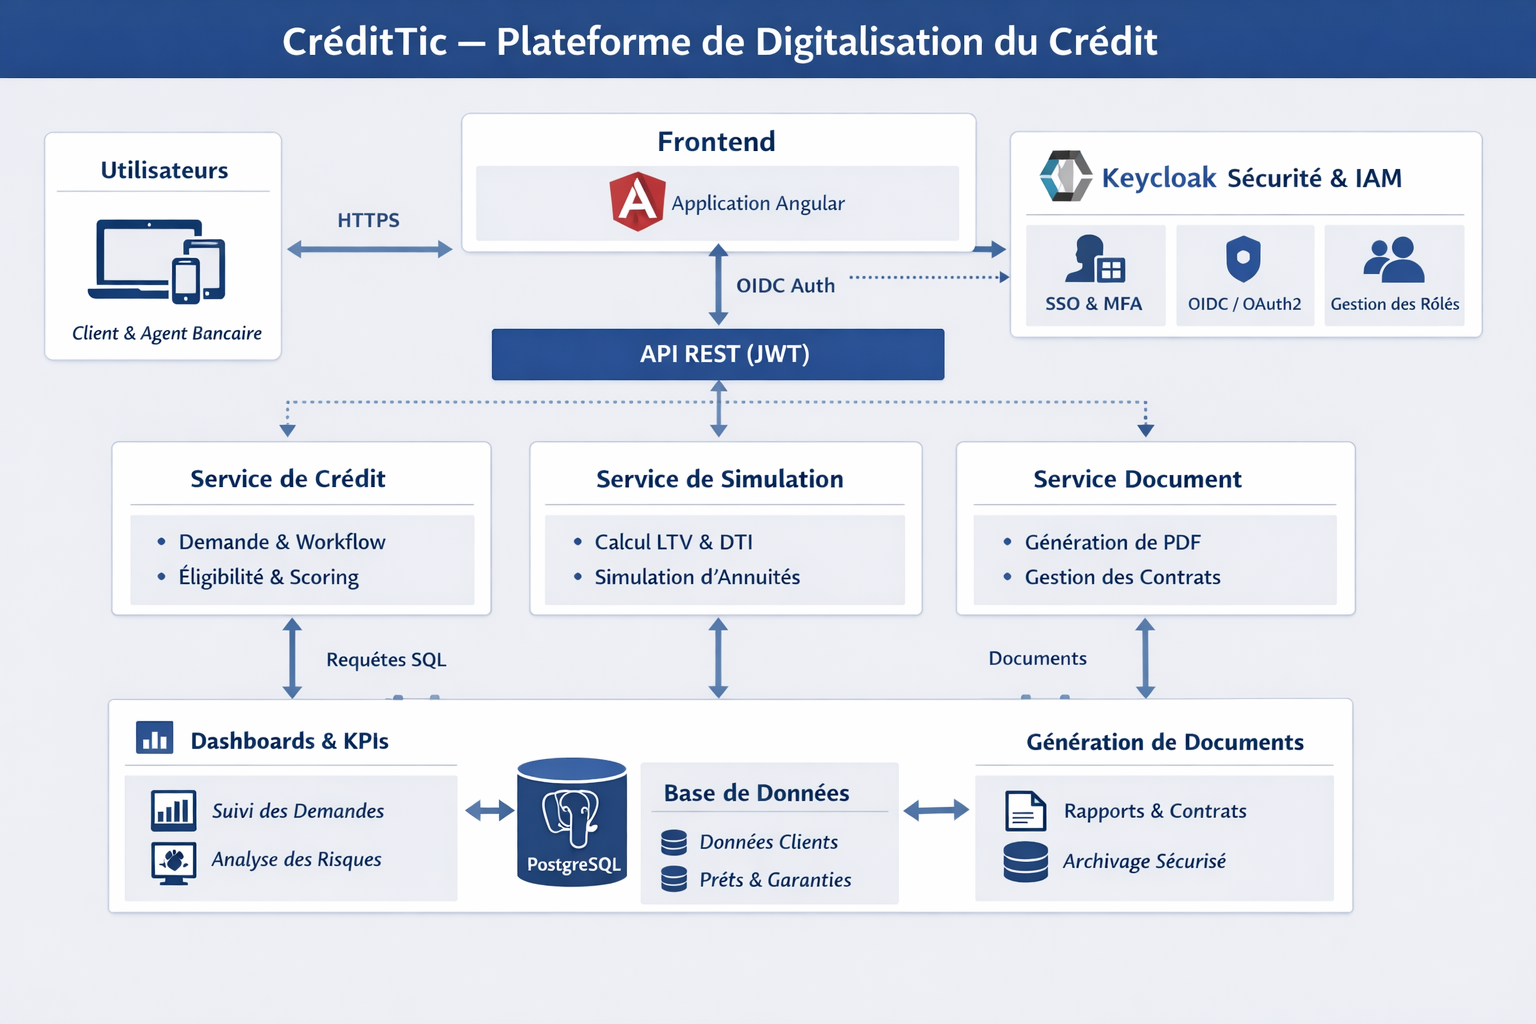
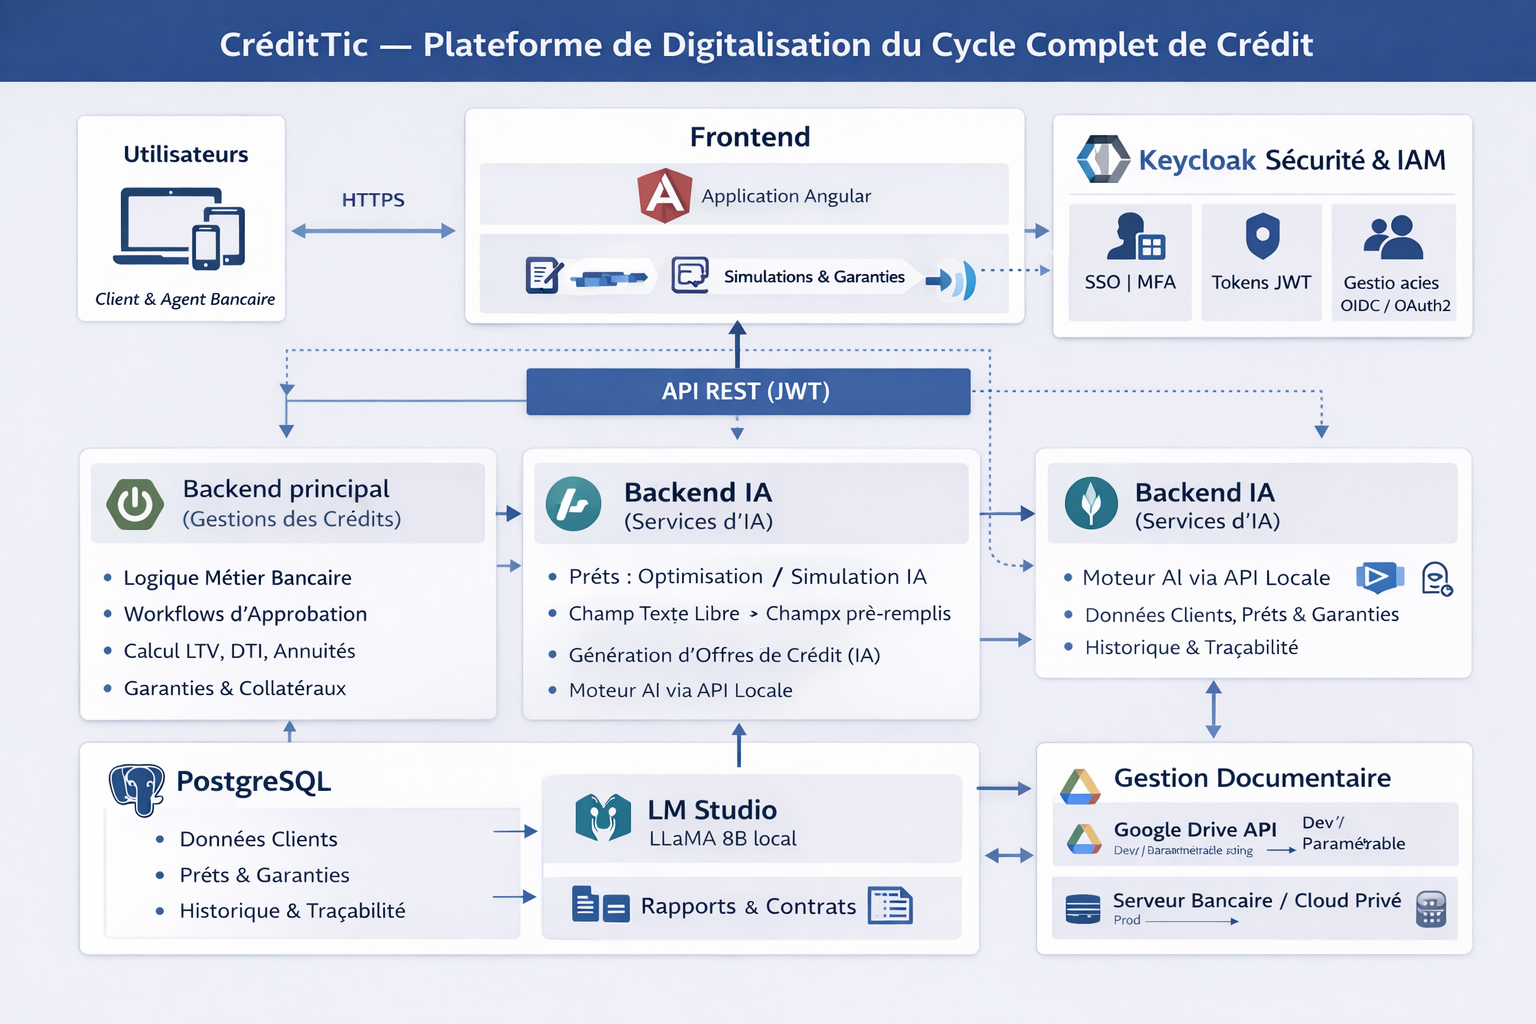
Update portfolio content (correction2)

diff --git a/app.py b/app.py
@@ -670,14 +670,24 @@ if section == "Projets":
 <h3>CréditTic — Digitalisation du cycle complet de crédit</h3>
 
 <ul>
-<li>Architecture n-tiers : <b>Spring Boot</b> • <b>Angular</b> • <b>PostgreSQL</b></li>
-<li>Authentification : <b>Keycloak</b> (SSO / MFA)</li>
-<li>Modules : simulation de prêt (<b>LTV</b>, <b>DTI</b>, annuités), gestion des garanties, génération de documents, dashboards</li>
-<li>Objectif : réduire les délais de traitement, améliorer la traçabilité et l’expérience client</li>
+  <li>Architecture n-tiers : <b>Spring Boot</b> • <b>Angular</b> • <b>PostgreSQL</b></li>
+  <li>Authentification : <b>Keycloak</b> (SSO / MFA)</li>
+  <li>Modules : simulation de prêt (<b>LTV</b>, <b>DTI</b>, annuités), gestion des garanties, génération de documents, dashboards</li>
+
+  <li><b>IA intégrée (LLM)</b> : utilisation de <b>Llama 3 8B</b> via <b>LM Studio</b> pour assister les processus de crédit :</li>
+  <ul>
+    <li>Génération d’une <b>offre de crédit</b> (résumé + proposition) à partir des données client</li>
+    <li><b>Optimisation / recommandation</b> de garanties selon le profil et les règles métier</li>
+    <li><b>Remplissage automatique</b> de champs (pré-saisie) à partir d’un paragraphe descriptif fourni par l’agent</li>
+    <li>Support à la <b>simulation</b> et explication des résultats (LTV/DTI/échéancier) en langage naturel</li>
+  </ul>
+
+  <li>Objectif : réduire les délais de traitement, améliorer la traçabilité et l’expérience client</li>
 </ul>
 
 </div>
 """, unsafe_allow_html=True)
+
 
 
 
@@ -695,6 +705,7 @@ if section == "Projets":
         if arch:
             st.write("")
             st.markdown("### Architecture")
+            st.markdown("""CréditTic est une plateforme de digitalisation du crédit conçue pour automatiser et sécuriser l’ensemble du cycle de traitement des demandes. Elle combine une architecture web n-tiers moderne, des services bancaires robustes et des capacités d’intelligence artificielle afin d’améliorer la simulation des prêts, l’optimisation des garanties et la génération des offres de crédit, tout en respectant les exigences de sécurité et de conformité du secteur bancaire.""")
             st.image(str(arch), width="stretch")
 
         st.write("")
